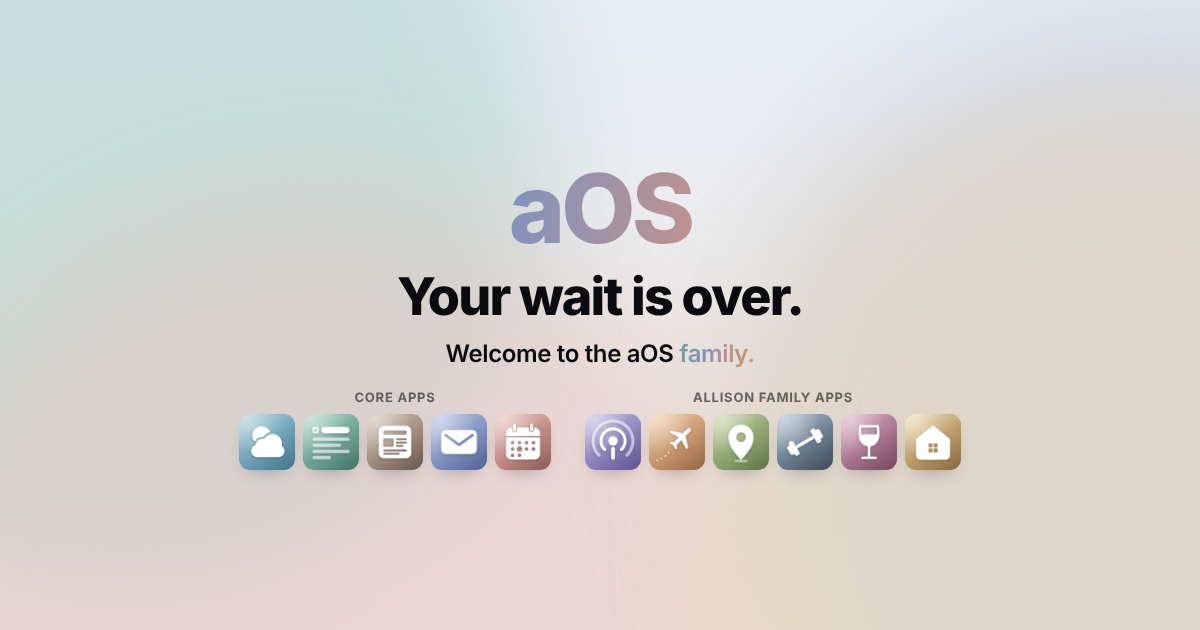
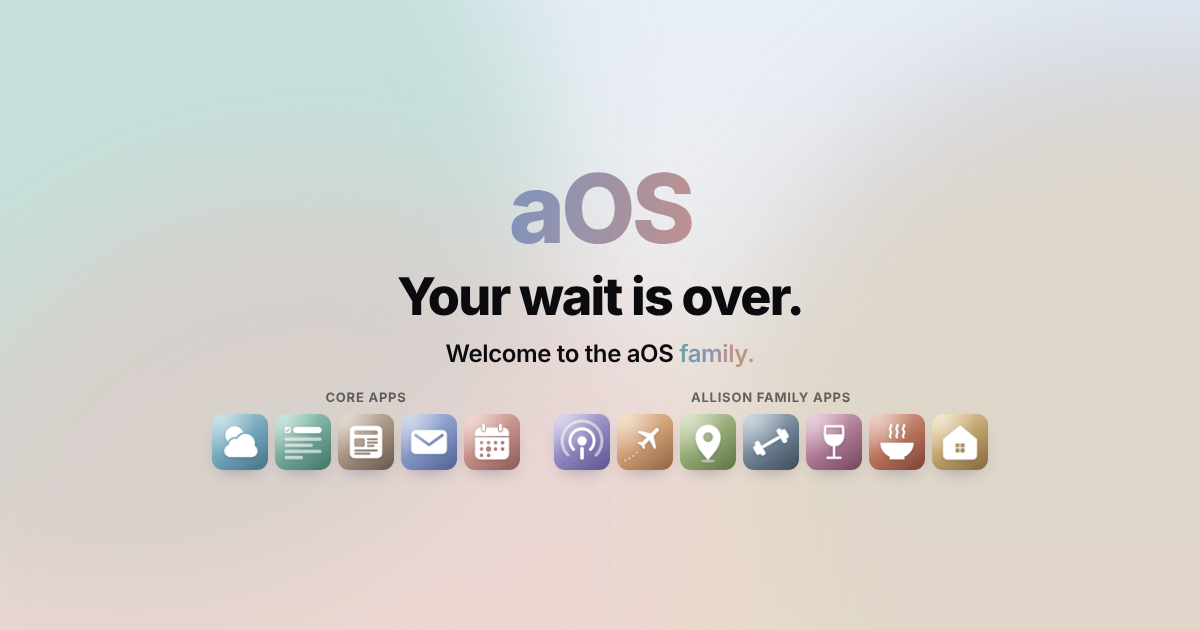
Welcome: Meals joins the Allison family apps
Seven family app icons now: Podcasts, Travel, Places, Fitness, Drinks, Meals
and Home. Each icon is a seventh of the row (at most 48px), so they stay on one
line on any phone; the link preview (og.png) shows Meals too.

Claude-Session: https://claude.ai/code/session_014U1H5m73qwVNYUS5vJK2Ty

Changed region(s): [[0.1542, 0.6032, 0.8325, 0.754]]

diff --git a/welcome/index.html b/welcome/index.html
@@ -86,9 +86,10 @@
   .hi em { font-style: normal; background: var(--pastel); -webkit-background-clip: text; background-clip: text; color: transparent; -webkit-text-fill-color: transparent; }
   .sub { margin: 12px auto 0; max-width: 420px; font-size: 17px; line-height: 1.45; color: var(--muted-d); }
   .apps { display: flex; flex-direction: column; gap: 16px; margin: 28px auto 0; max-width: 400px; }
-  .apps .icons { display: flex; flex-wrap: wrap; justify-content: center; gap: 8px; }
+  .apps .icons { display: flex; flex-wrap: nowrap; justify-content: center; gap: 7px; }
   .apps .glabel { margin: 0 0 9px; font-size: 13px; font-weight: 700; letter-spacing: .06em; text-transform: uppercase; color: var(--muted-d); }
-  .apps img { width: 48px; height: 48px; border-radius: 11px; box-shadow: 0 8px 18px -10px rgba(40,40,70,.45); opacity: 0; transform: translateY(14px) scale(.7); transition: opacity .5s, transform .7s cubic-bezier(.34,1.56,.64,1); }
+  /* seven family apps in one row on any phone: each a seventh of the row (less the gaps and main's 20px sides), at most 48px */
+  .apps img { width: min(48px, calc((min(100vw, 440px) - 40px - 42px) / 7)); height: auto; aspect-ratio: 1; border-radius: 11px; box-shadow: 0 8px 18px -10px rgba(40,40,70,.45); opacity: 0; transform: translateY(14px) scale(.7); transition: opacity .5s, transform .7s cubic-bezier(.34,1.56,.64,1); }
   .apps.on img { opacity: 1; transform: none; }
   .card { margin: 30px auto 0; max-width: 420px; padding: 22px 20px 18px; border-radius: 28px; background: var(--glass); box-shadow: inset 0 0 0 1px var(--edge), 0 24px 60px -24px rgba(60,60,100,.35);
     -webkit-backdrop-filter: blur(20px) saturate(160%); backdrop-filter: blur(20px) saturate(160%); }
@@ -149,7 +150,7 @@
     <p class="sub">Every app you&rsquo;ve been waiting for, made for us, with one family account.</p>
     <div class="apps" id="apps">
       <div role="group" aria-label="Core apps: Weather, Notes, News, Mail and Calendar"><p class="glabel" aria-hidden="true">Core apps</p><div class="icons" id="coreIcons"></div></div>
-      <div role="group" aria-label="Allison family apps: Podcasts, Travel, Places, Fitness, Drinks and Home"><p class="glabel" aria-hidden="true">Allison family apps</p><div class="icons" id="familyIcons"></div></div>
+      <div role="group" aria-label="Allison family apps: Podcasts, Travel, Places, Fitness, Drinks, Meals and Home"><p class="glabel" aria-hidden="true">Allison family apps</p><div class="icons" id="familyIcons"></div></div>
     </div>
     <div class="card">
       <a class="go" id="go" href="https://tomallison24-news.pages.dev/aOS/">Get aOS</a>

diff --git a/welcome/welcome.js b/welcome/welcome.js
@@ -8,8 +8,8 @@
   'use strict';
   const AOS = 'https://tomallison24-news.pages.dev/aOS/';
   // the core apps, then the Allison family's own (as aOS shows them)
-  const CORE = ['weather', 'notes', 'news', 'mail', 'calendar'], FAMILY = ['podcasts', 'travel', 'places', 'fitness', 'drinks', 'house'];
-  const HUES = ['#6EA2B7', '#6FA597', '#A08D7B', '#7F93C2', '#C08A84', '#8D84BE', '#C9976E', '#8FA570', '#6B7F91', '#A97590', '#BC9C68'];
+  const CORE = ['weather', 'notes', 'news', 'mail', 'calendar'], FAMILY = ['podcasts', 'travel', 'places', 'fitness', 'drinks', 'meals', 'house'];
+  const HUES = ['#6EA2B7', '#6FA597', '#A08D7B', '#7F93C2', '#C08A84', '#8D84BE', '#C9976E', '#8FA570', '#6B7F91', '#A97590', '#B5705A', '#BC9C68'];
   const $ = id => document.getElementById(id);
   const body = document.body;
   const still = matchMedia('(prefers-reduced-motion: reduce)').matches;
